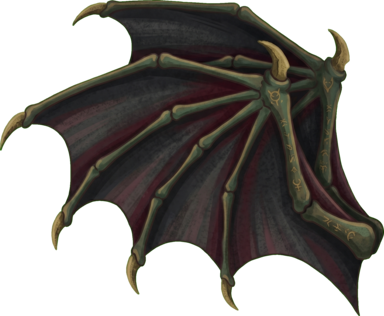
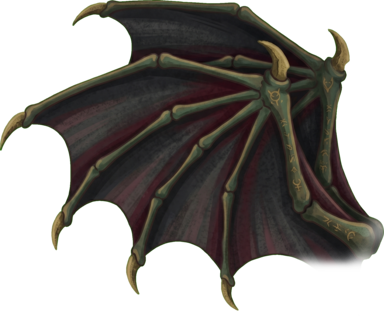
Cosmetics: tuning pass — wizard hat tilt, demon wings, chain offset
Small follow-up nudges after a playthrough with the new anchors:

- Wizard hat: rotation -0.15 → -0.12 (less aggressive lean)
  and offset.y 0.02 → 0.04 so the brim sits a hair lower.
- Gold chain: offset.x -0.03 → -0.025 — tiny nudge forward so
  the pendants drape closer to the front of the throat.
- Demon wings: offset -0.21→-0.19, 0.16→0.15 so the spine
  seam lines up with the shoulder silhouette.

Art updates: demon-wings.png, gold-chain.png, tiara.png each
re-exported — cleaner edges and, for the tiara, a re-proportioned
band that no longer clips the skull.

Changed region(s): [[0.75, 0.6835, 1.0, 1.0]]

diff --git a/src/cosmetics.ts b/src/cosmetics.ts
@@ -140,7 +140,7 @@ export const COSMETICS: ReadonlyArray<CosmeticDef> = [
     price: 200,
     spriteKey: "wizardHat",
     description: "Pointy and arcane.",
-    draw: { scale: 0.32, rotation: -0.15, offset: { x: -0.02, y: 0.02 } },
+    draw: { scale: 0.32, rotation: -0.12, offset: { x: 0.0, y: 0.04 } },
   },
   {
     id: "pirate-tricorn",
@@ -232,7 +232,7 @@ export const COSMETICS: ReadonlyArray<CosmeticDef> = [
     // Pendant group sits on the neck/chest — scaled down again
     // after the last pass felt too chunky, nudged a touch down
     // and forward so the pendants rest on the throat.
-    draw: { scale: 0.063, rotation: -0.3, offset: { x: -0.03, y: 0.05 } },
+    draw: { scale: 0.063, rotation: -0.3, offset: { x: -0.025, y: 0.05 } },
   },
 
   // ── Shop: back ────────────────────────────────────────
@@ -269,7 +269,7 @@ export const COSMETICS: ReadonlyArray<CosmeticDef> = [
     draw: {
       scale: 0.7,
       rotation: 0.3,
-      offset: { x: 0.16, y: -0.21 },
+      offset: { x: 0.15, y: -0.19 },
       attachmentPoint: { x: 0.68, y: 0.12 },
     },
   },
